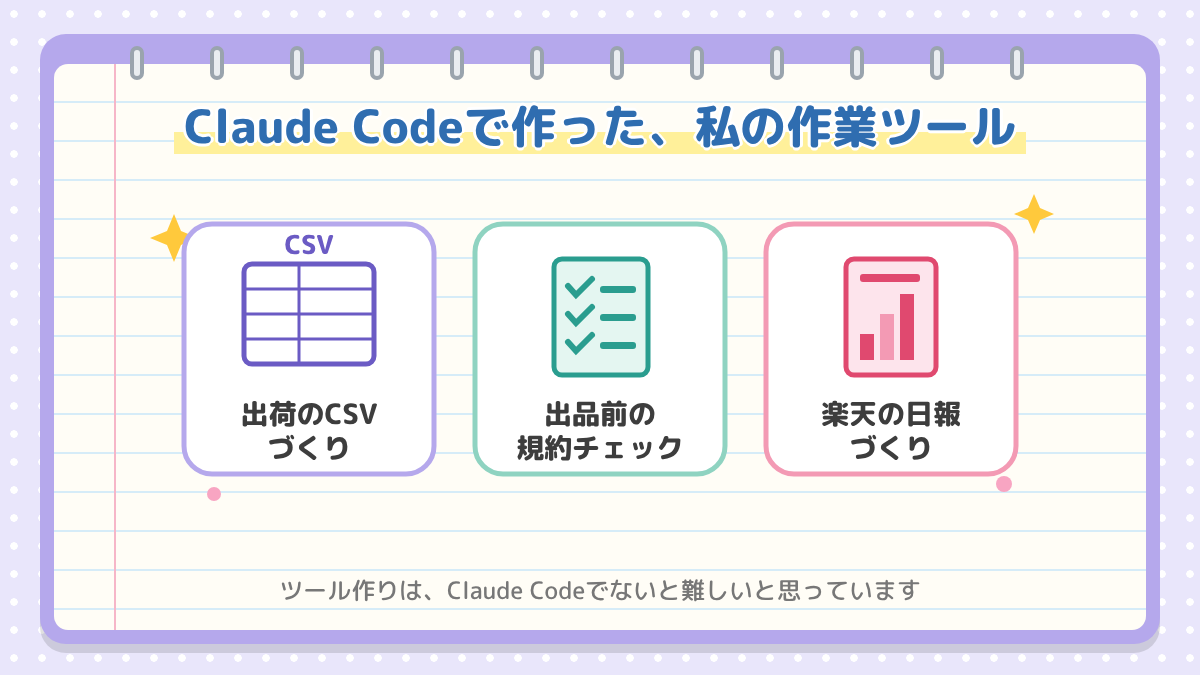
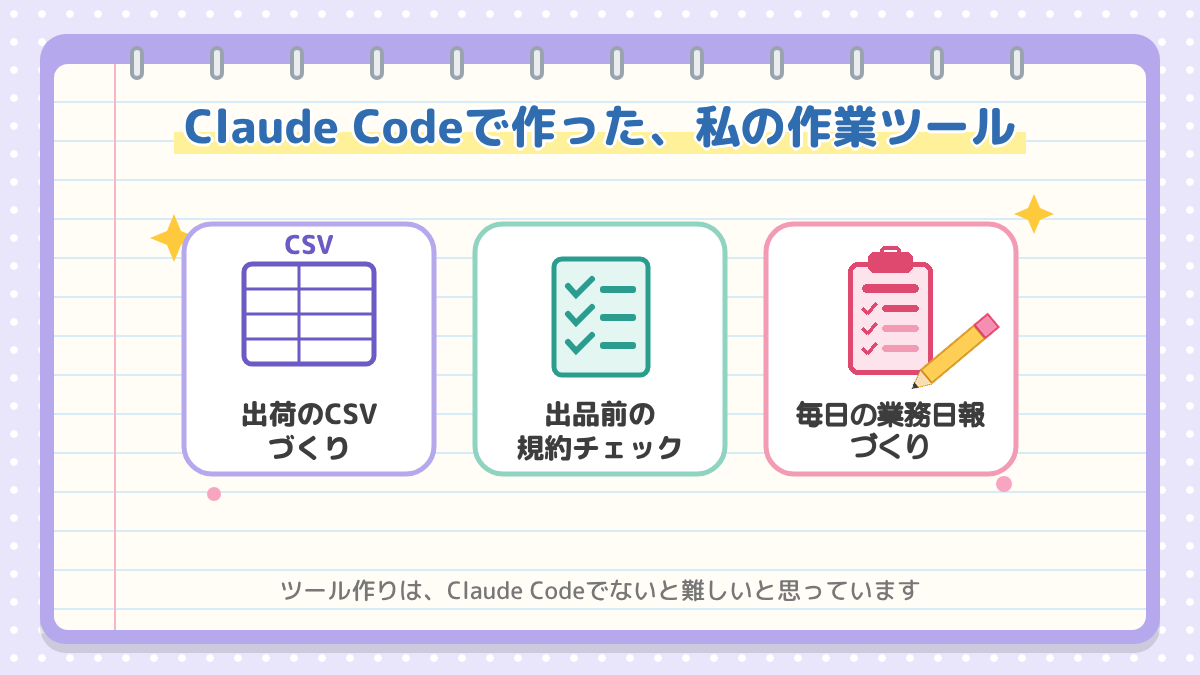
AIシリーズ①：楽天の日報を「毎日の業務日報」に直す（原稿と4枚目の絵）

Changed region(s): [[0.6475, 0.3733, 0.8325, 0.6844]]

diff --git a/posts/2026-10-13-ai-blog-saikai.html b/posts/2026-10-13-ai-blog-saikai.html
@@ -11,7 +11,7 @@
 ・-1.png 人差し指一本で、ポチ…ポチ…　文字を打つのも、文章を直すのも、とても苦手です
 ・-2.png アイデアを出すと、AIがブログの形に！　アイデア→AI→ブログ　私が話したことを、AIが記事の形に考えてくれます
 ・-3.png せどりで、AIが使える作業　リサーチ　お客さんとのメール　発注伝票の作成　たとえば、この3つ。ほかにもできる作業はたくさんあります
-・-4.png Claude Codeで作った、私の作業ツール　出荷のCSVづくり　出品前の規約チェック　楽天の日報づくり　ツール作りは、Claude Codeでないと難しいと思っています
+・-4.png Claude Codeで作った、私の作業ツール　出荷のCSVづくり　出品前の規約チェック　毎日の業務日報づくり　ツール作りは、Claude Codeでないと難しいと思っています
 ※ふきだし・囲み枠は Cocoon の見た目を使うため「カスタムHTML」のブロックで入れている
 ※本文は WordPress の下書き（1665番）と同じ内容（最後の【PR】の枠まで）
 -->
@@ -113,7 +113,7 @@
 <!-- /wp:heading -->
 
 <!-- wp:paragraph -->
-<p><mark style="background-color:rgba(0, 0, 0, 0);color:#c00000" class="has-inline-color"><strong>【画像を入れる場所：2026-10-13-ai-blog-saikai-4.png（代替テキスト：Claude Codeで作った、私の作業ツール　出荷のCSVづくり　出品前の規約チェック　楽天の日報づくり　ツール作りは、Claude Codeでないと難しいと思っています）】</strong></mark></p>
+<p><mark style="background-color:rgba(0, 0, 0, 0);color:#c00000" class="has-inline-color"><strong>【画像を入れる場所：2026-10-13-ai-blog-saikai-4.png（代替テキスト：Claude Codeで作った、私の作業ツール　出荷のCSVづくり　出品前の規約チェック　毎日の業務日報づくり　ツール作りは、Claude Codeでないと難しいと思っています）】</strong></mark></p>
 <!-- /wp:paragraph -->
 
 <!-- wp:paragraph -->
@@ -129,7 +129,7 @@
 <!-- /wp:paragraph -->
 
 <!-- wp:html -->
-<div class="blank-box bb-yellow"><ul><li>出荷のCSV（表の形のデータ）を作るツール</li><li>出品する前に、お店の規約に合っているかチェックするツール</li><li>楽天の日報を作るツール</li></ul></div>
+<div class="blank-box bb-yellow"><ul><li>出荷のCSV（表の形のデータ）を作るツール</li><li>出品する前に、お店の規約に合っているかチェックするツール</li><li>毎日の業務日報を作るツール</li></ul></div>
 <!-- /wp:html -->
 
 <!-- wp:html -->
